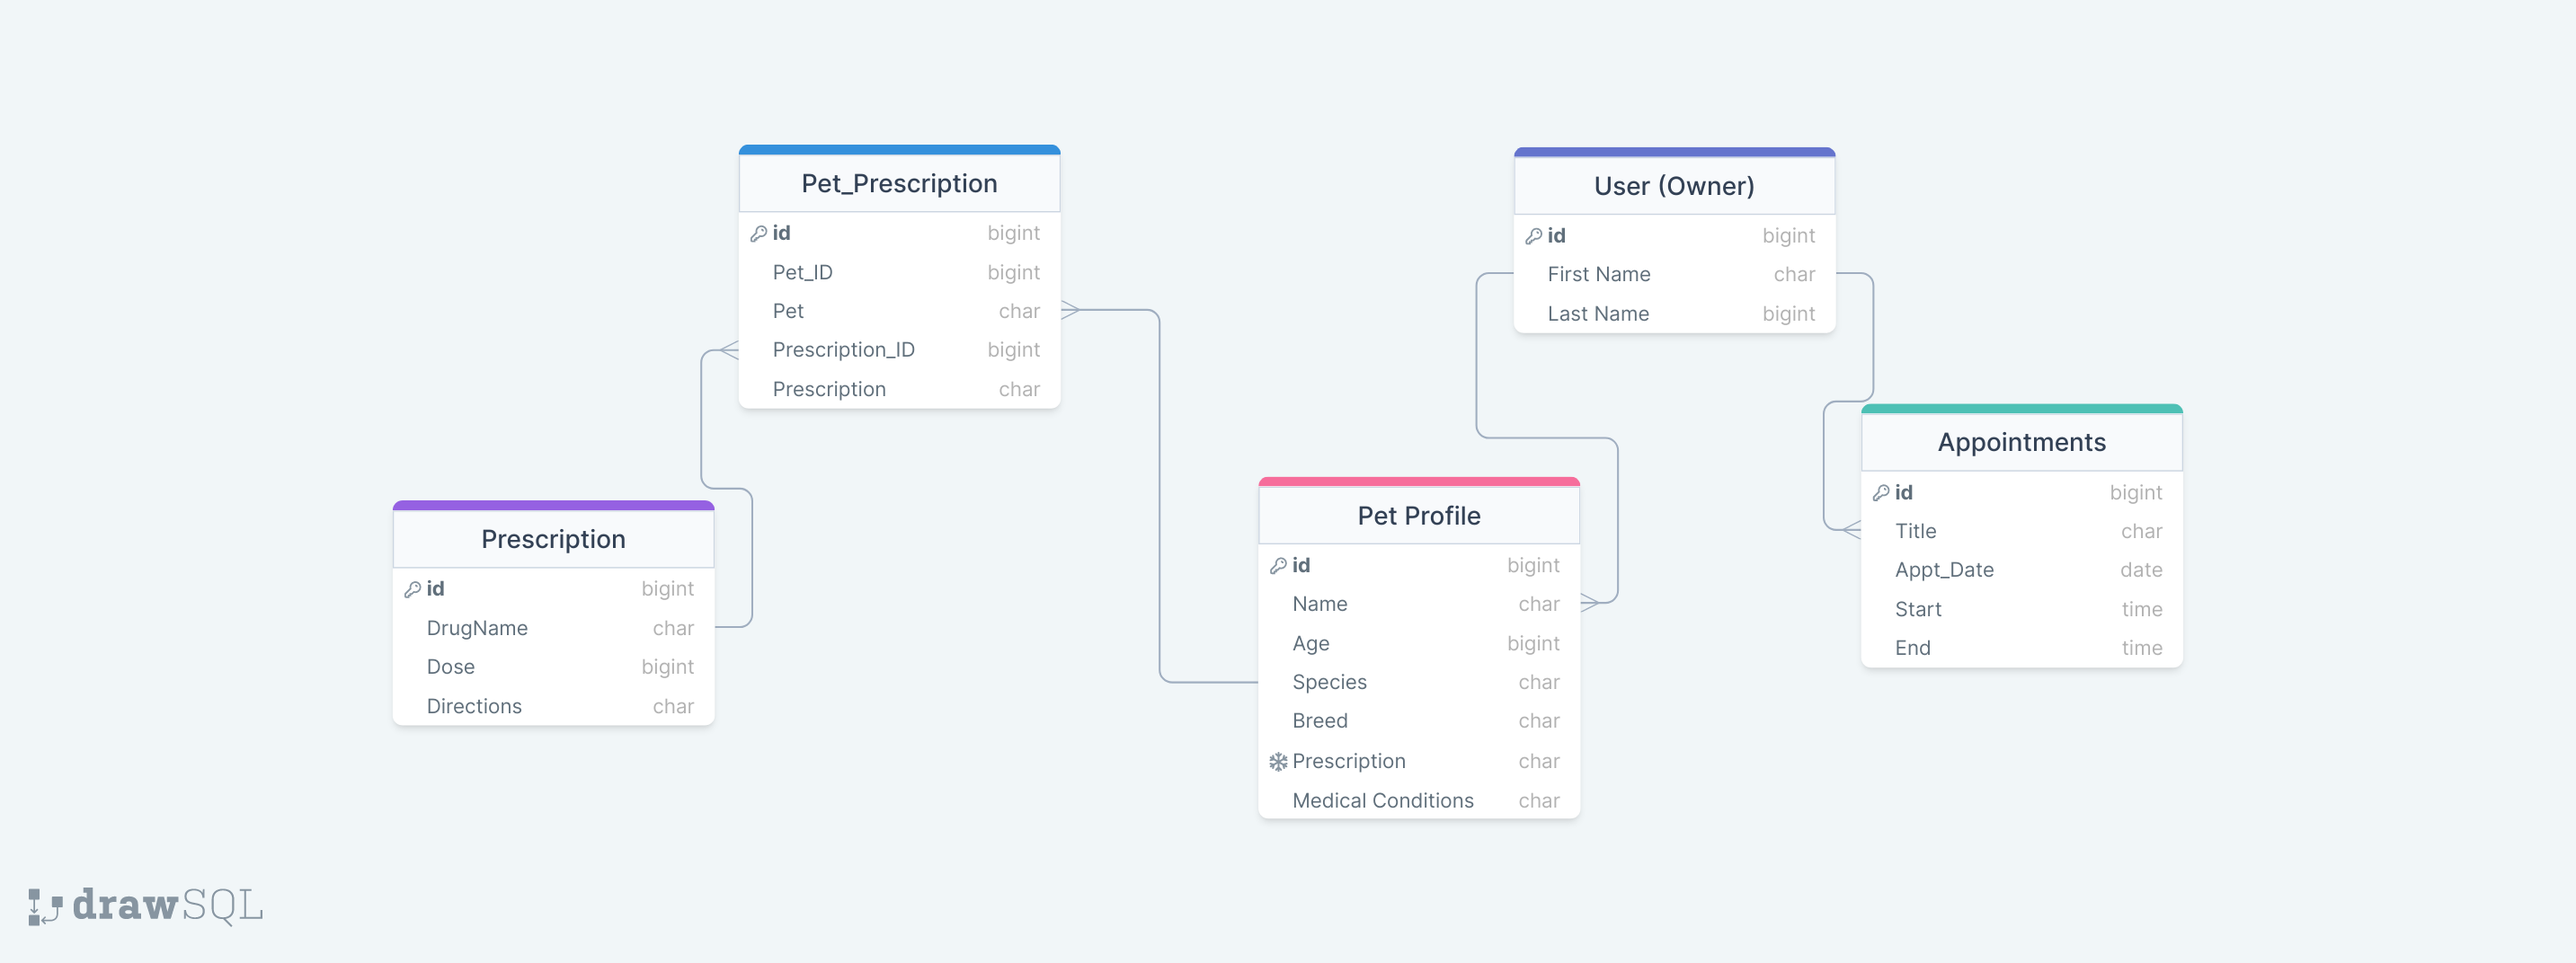
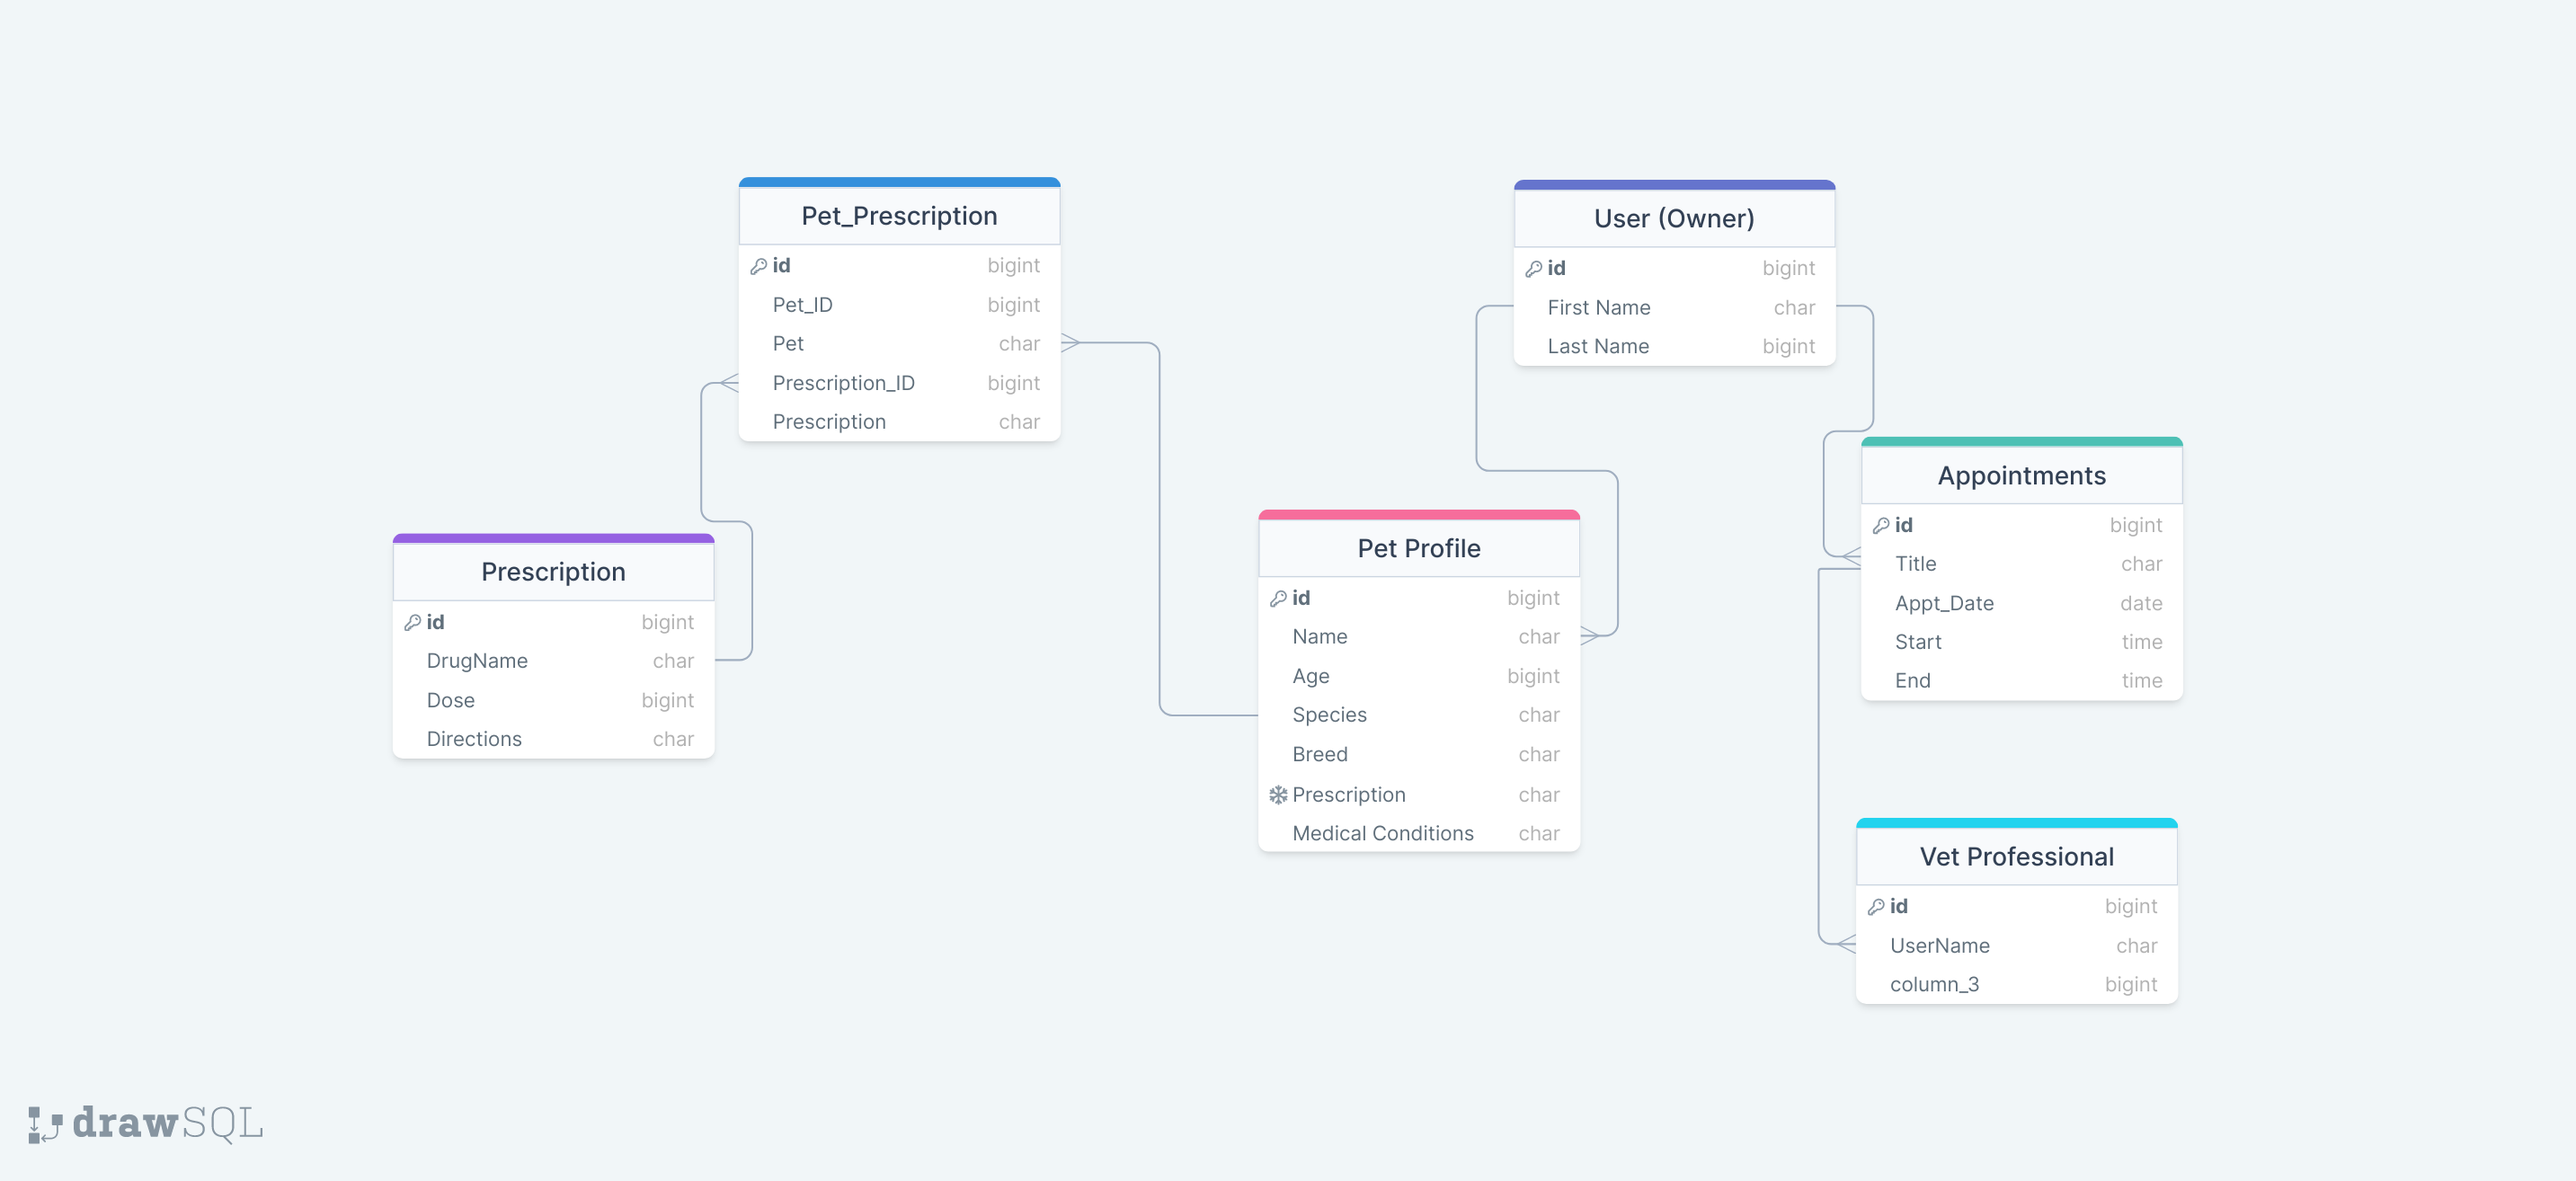
Updated ERD with Vet Professionals

diff --git a/frontend/src/components/ProfilePresenter/ProfilePresenter.css b/frontend/src/components/ProfilePresenter/ProfilePresenter.css
@@ -12,8 +12,8 @@
     justify-content: center;
     margin-bottom: 1rem;
     gap: 1rem;
-    /* background-color: rgb(247, 244, 207); */
-    background-color: white;
+    background-color: rgb(250, 249, 239);
+    /* background-color: white; */
     padding-left: 0.75rem;
     padding-top: 0.5rem;
     margin-top: 0.5rem;

diff --git a/frontend/src/App.css b/frontend/src/App.css
@@ -117,7 +117,7 @@ button:hover {
 }
 
 .petlist {
-  background-color: rgb(231, 233, 220);
+  background-color: rgb(250, 249, 239);
   text-align: left;
   display: flex;
   flex-direction: row;
